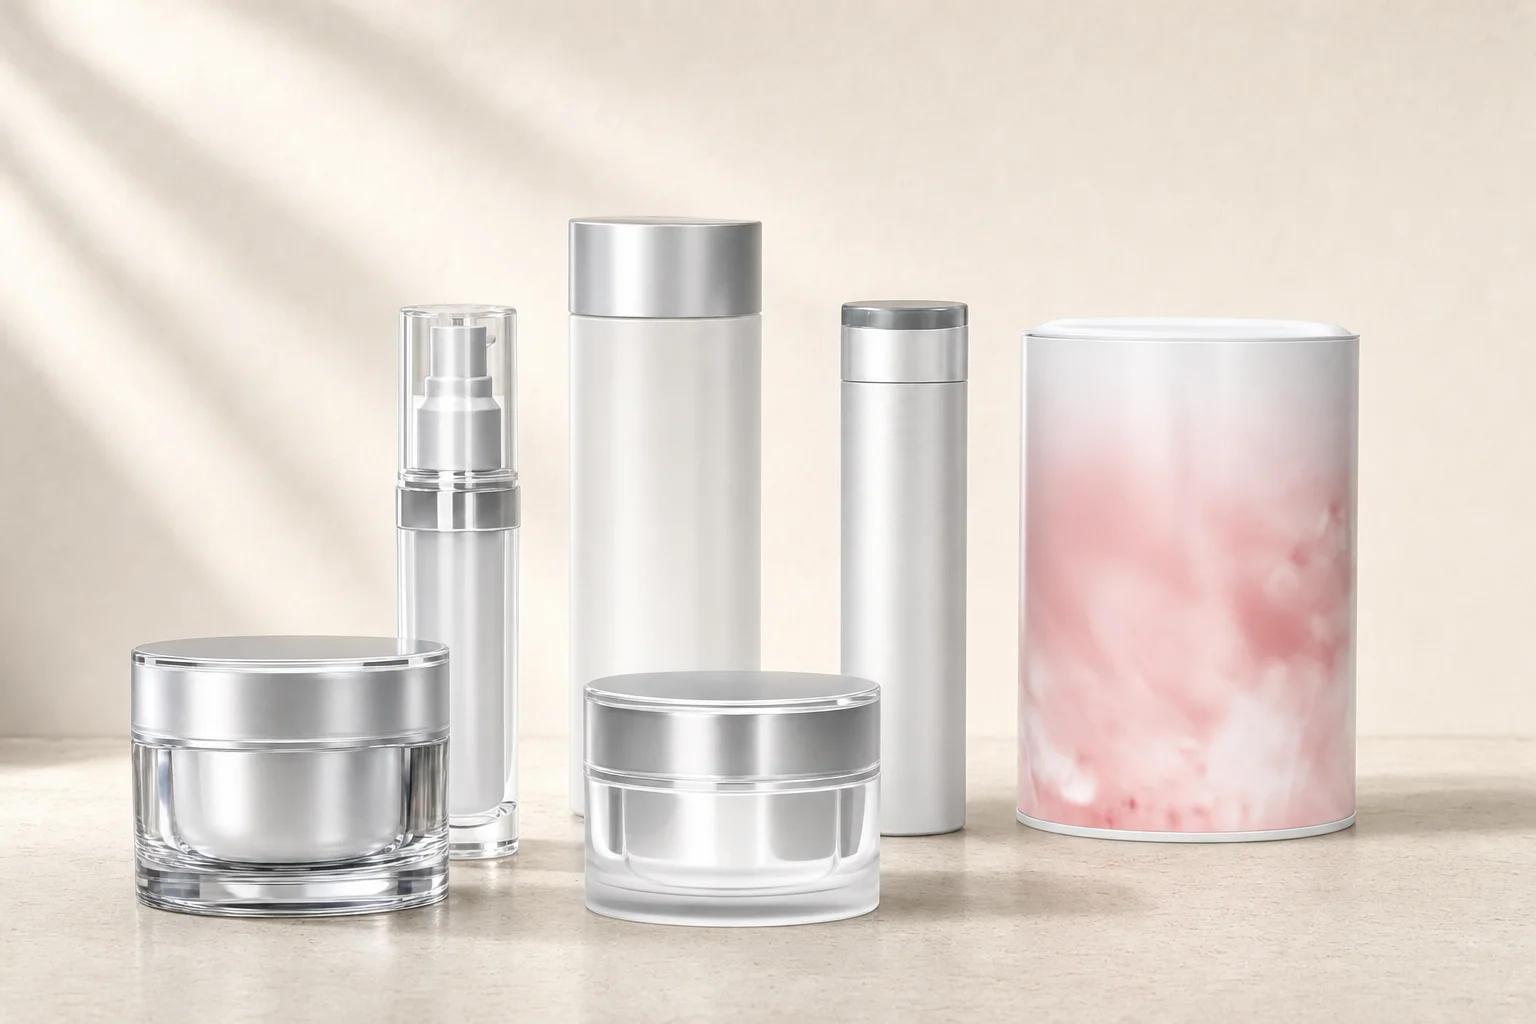
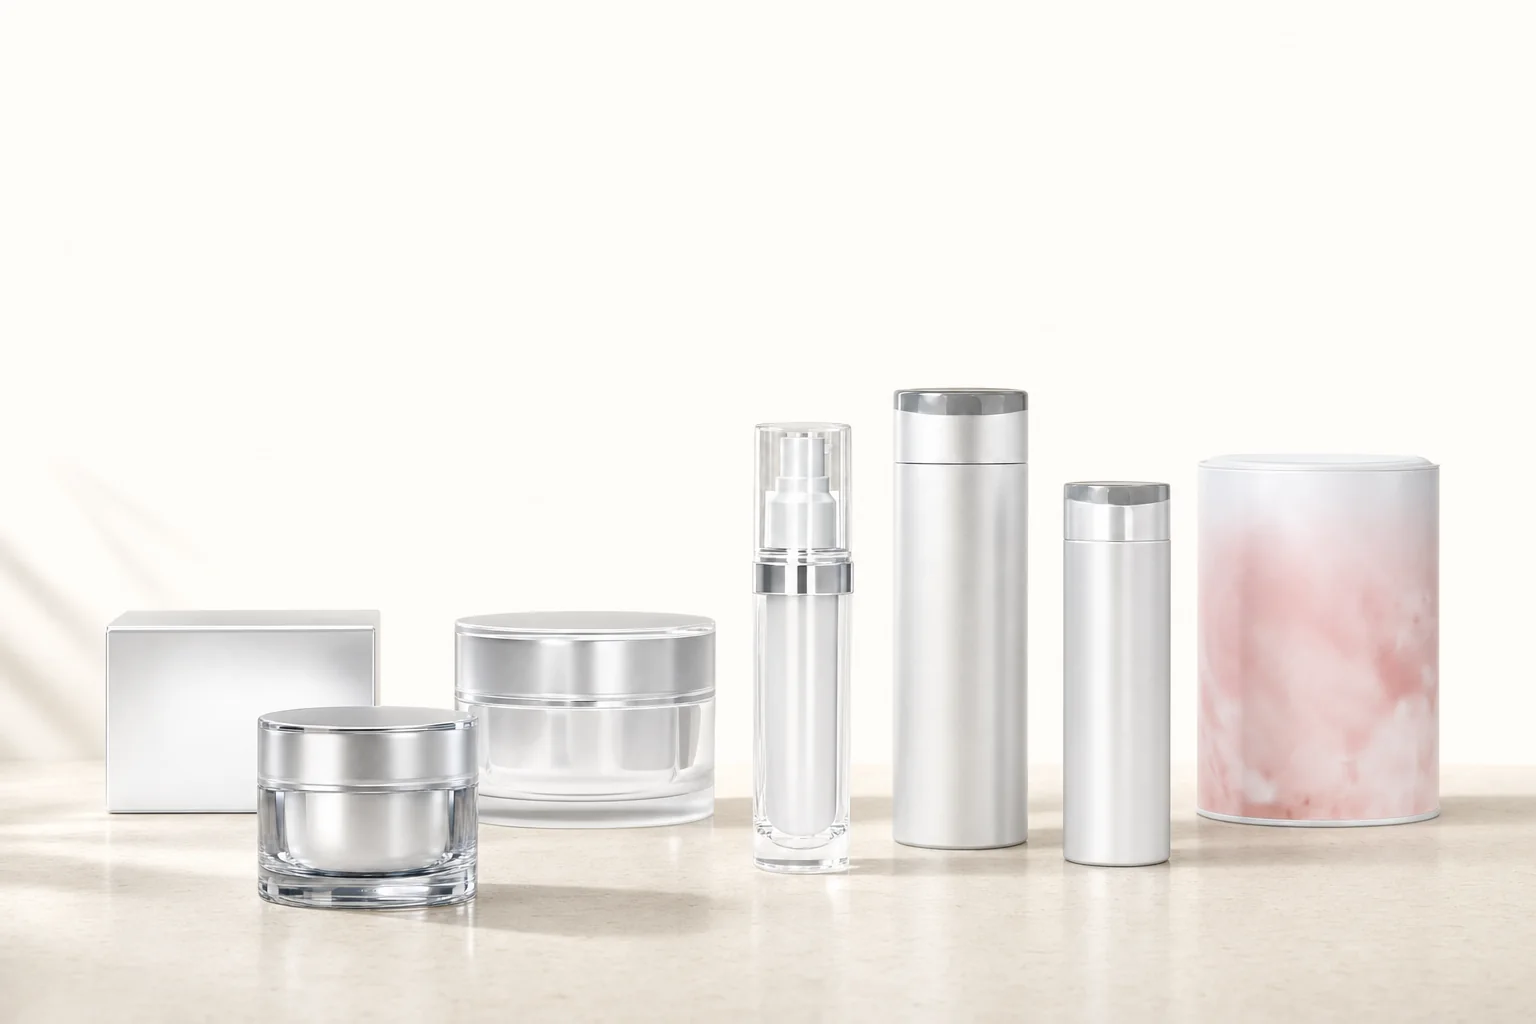
feat(beauty): Produkt-Öffner mit neuem Bild (freie obere Hälfte), Überschrift auf dem Bild, Readme Runde 10 (nur lokal)

diff --git a/templates/pm-beauty/index.html b/templates/pm-beauty/index.html
@@ -922,7 +922,7 @@ footer { background: var(--bg-2); }
 .pr-stage { position: relative; margin: 0 calc(-1 * var(--pad-x)); background: var(--paper); overflow: hidden; }
 .pr-stage > img { width: 100%; height: auto; display: block; }
 .pr-stage::before { content: ''; position: absolute; inset: 0; background: linear-gradient(180deg, var(--paper) 0%, rgba(255,252,248,0) 22%), linear-gradient(180deg, rgba(255,252,248,0) 78%, var(--paper) 100%); pointer-events: none; }
-.pr-stage .s-head { position: absolute; left: var(--pad-x); right: var(--pad-x); top: 10%; z-index: 2; margin: 0 auto; }
+.pr-stage .s-head { position: absolute; left: var(--pad-x); right: var(--pad-x); top: 7%; z-index: 2; margin: 0 auto; }
 .pr-rows { max-width: 1040px; margin: -40px auto 0; position: relative; z-index: 2; display: grid; gap: 10px; }
 .pr-row { display: grid; grid-template-columns: 84px 1fr auto; gap: 20px; align-items: center; width: 100%; text-align: left; padding: 16px 20px 16px 16px; background: var(--bg); border: 1px solid var(--line); border-radius: var(--r-sm); transition: border-color .2s, transform .2s var(--ease); }
 .pr-row:hover { border-color: var(--line-2); transform: translateY(-1px); }
@@ -1178,7 +1178,7 @@ footer { background: var(--bg-2); }
   .check-visual img.hand { width: 82%; }
   .pr-stage { display: flex; flex-direction: column; padding-top: 48px; }
   .pr-stage .s-head { position: static; order: -1; padding: 0 var(--pad-x) 8px; }
-  .pr-stage > img { aspect-ratio: 4 / 3; object-fit: cover; object-position: 50% 100%; }
+  .pr-stage > img { aspect-ratio: 1 / 1; object-fit: cover; object-position: 50% 100%; }
   .pr-stage::before { display: none; }
   .pr-rows { margin-top: -24px; }
   .pr-row { grid-template-columns: 64px 1fr; }

diff --git a/templates/pm-beauty/src/01-head.html b/templates/pm-beauty/src/01-head.html
@@ -223,7 +223,7 @@ footer { background: var(--bg-2); }
 .pr-stage { position: relative; margin: 0 calc(-1 * var(--pad-x)); background: var(--paper); overflow: hidden; }
 .pr-stage > img { width: 100%; height: auto; display: block; }
 .pr-stage::before { content: ''; position: absolute; inset: 0; background: linear-gradient(180deg, var(--paper) 0%, rgba(255,252,248,0) 22%), linear-gradient(180deg, rgba(255,252,248,0) 78%, var(--paper) 100%); pointer-events: none; }
-.pr-stage .s-head { position: absolute; left: var(--pad-x); right: var(--pad-x); top: 10%; z-index: 2; margin: 0 auto; }
+.pr-stage .s-head { position: absolute; left: var(--pad-x); right: var(--pad-x); top: 7%; z-index: 2; margin: 0 auto; }
 .pr-rows { max-width: 1040px; margin: -40px auto 0; position: relative; z-index: 2; display: grid; gap: 10px; }
 .pr-row { display: grid; grid-template-columns: 84px 1fr auto; gap: 20px; align-items: center; width: 100%; text-align: left; padding: 16px 20px 16px 16px; background: var(--bg); border: 1px solid var(--line); border-radius: var(--r-sm); transition: border-color .2s, transform .2s var(--ease); }
 .pr-row:hover { border-color: var(--line-2); transform: translateY(-1px); }
@@ -479,7 +479,7 @@ footer { background: var(--bg-2); }
   .check-visual img.hand { width: 82%; }
   .pr-stage { display: flex; flex-direction: column; padding-top: 48px; }
   .pr-stage .s-head { position: static; order: -1; padding: 0 var(--pad-x) 8px; }
-  .pr-stage > img { aspect-ratio: 4 / 3; object-fit: cover; object-position: 50% 100%; }
+  .pr-stage > img { aspect-ratio: 1 / 1; object-fit: cover; object-position: 50% 100%; }
   .pr-stage::before { display: none; }
   .pr-rows { margin-top: -24px; }
   .pr-row { grid-template-columns: 64px 1fr; }

diff --git a/templates/pm-beauty/template-readme.md b/templates/pm-beauty/template-readme.md
@@ -37,6 +37,8 @@ Hero (4 KI-Bilder, `hero_variante`, Fraunces-Headline, kein Pill) → PM-Hinweis
 
 **Runde 9 (29.10.2026, 12:10, Daniels Feedback zu Runde 8):** Schrift wie aurevana.framer.website → **Inter** mit optischer Größe (Google-Fonts-Variante von „Inter Display“: Überschriften 300/400, enge Laufweite) + **DM Mono** für Eyebrow-Pills/Kennzeichen. Produkt-Öffner: Überschrift steht jetzt **über** dem Vollbild, Produkte voll sichtbar (nur unten Verlauf, keine Transparenz). Innen/außen: Frau **präzise freigestellt** (rembg `birefnet-general`, `assets/split-cut.webp` mit Alpha), Schlagschatten per CSS `drop-shadow`, Hintergrundfarben **je Farbthema per CSS** (`--aussen`/`--aussen-deep`/`--innen` in jedem Thema; `split.webp`/`split-m.webp` nicht mehr verwendet). Erklärungs-Spalten als **abgesetzte Karten** mit Abstand zum Bild (nicht mehr nahtlos). Zentrierter „Zusammen“-Satz entfernt.
 
+**Runde 10 (29.10.2026, 12:30–13:00):** Produkt-Öffner mit **neuem Bild** `lineup.webp` (gpt-image-2 Edit aus den Produktbildern: obere Hälfte leerer Cremehintergrund in Papierfarbe #FFFCF8, Produkte unten) – Überschrift liegt jetzt auf dem Bild, keine harte Kante mehr; Handy: Überschrift darüber, Bild quadratisch unten bündig. Produktzeilen mit **Icons** (Sonne = Morgens, Mond = Abends, Glas = 1 Glas am Tag). Produktfenster übersichtlicher (Bild + Titel + Preis als Kopf, „Kundenpreis“, Vorteile als Häkchen in zwei Spalten, Anwendung/Inhaltsstoffe nebeneinander), Button **„Direkt bestellen“**, Hinweis zum regulären Kundenpreis + „ob ein Kundenprogramm des Herstellers für dich infrage kommt“ (bewusst kein „Rabatt“ – PM-Richtlinie). CTA-Karte ohne Mockup, kompakt, mit **Profilbild** des Nutzers. Freisteller-Kanten weicher (MinFilter + Gauß 1,6 px, Saum weg). Hero: Text vertikal mittig, H1 größer (bis 108 px), **Font-Mix** Inter + Instrument Serif kursiv für `em` in H1/H2; Vorteile als Textzeile mit Icons über feiner Linie statt Pills.
+
 ## Shop-Links
 
 Direkt im Template: `https://www.fitline.com/de/de-de/products/{Artikelnr}?sponsor={{team_partner_number}}` (JS `fsShopUrl`). Keine `shop_*`-Felder im Schema.
